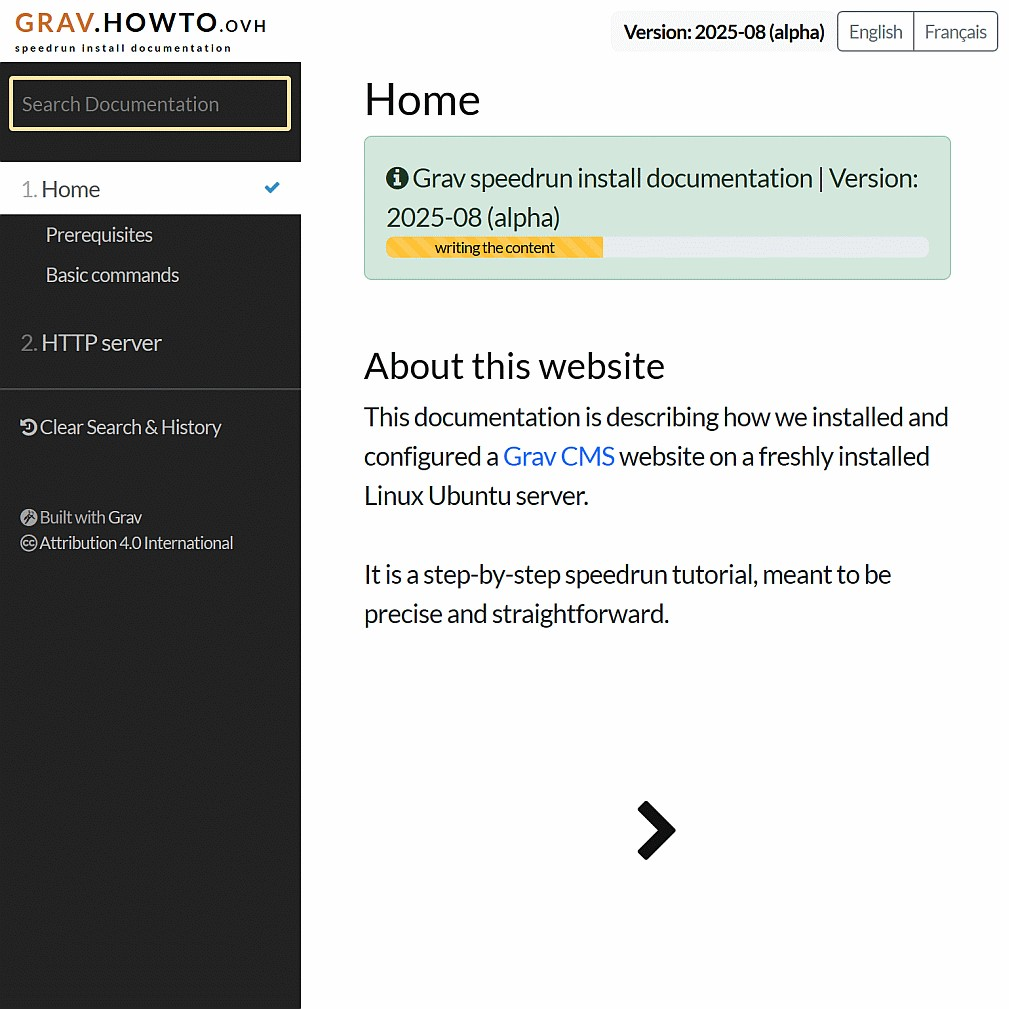
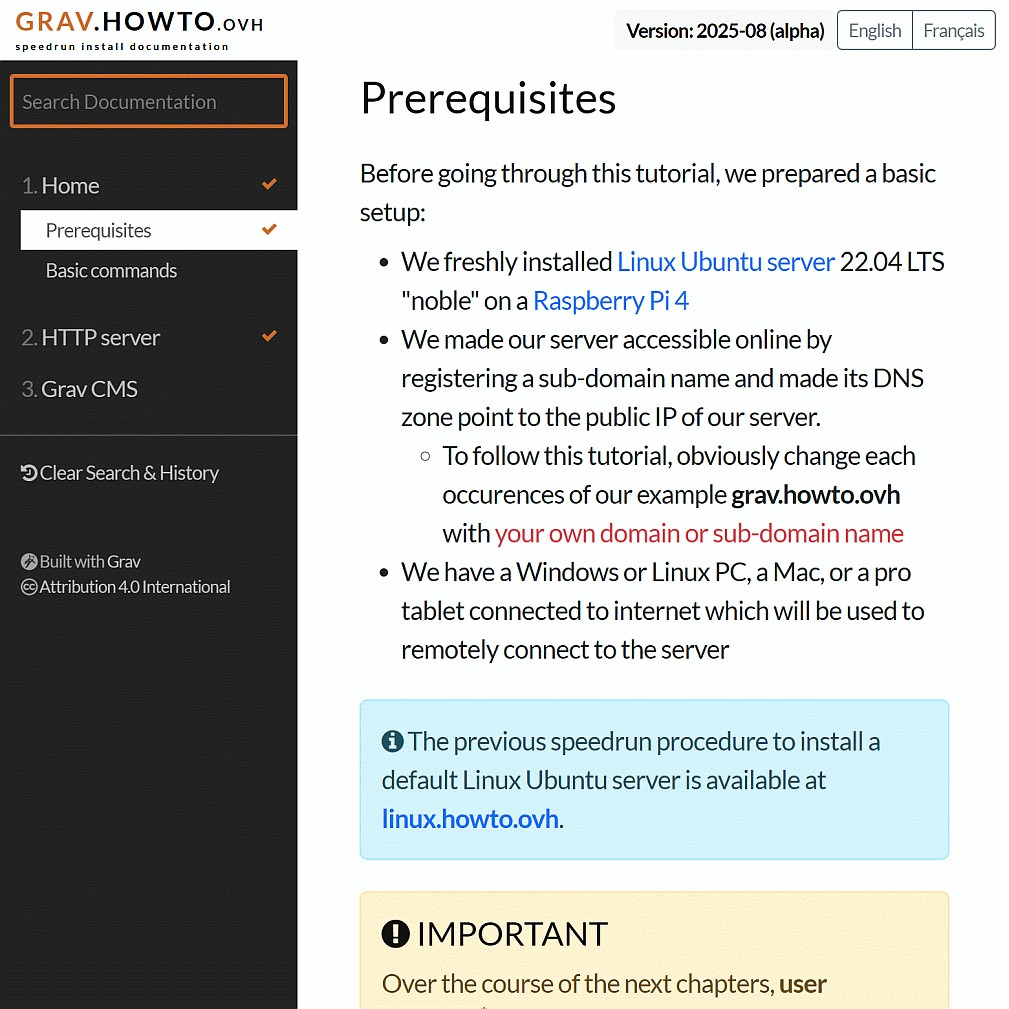
v0.2.0

diff --git a/css/custom.css b/css/custom.css
@@ -123,12 +123,12 @@ pre {
 
 .searchbox {
     background: rgb(0 0 0 / 0%);
-    color: #0dcaf0;
+    color: chocolate;
 }
 
 input[type="text"] {
     background-color: rgb(0 0 0 / 0%);
-    border: 3px solid #ffe69c;
+    border: 3px solid chocolate;
 }
 
 .search-wrapper .search-input {
@@ -179,6 +179,14 @@ input[type="text"] {
 .navbar-brand-micro {
     font-size:8px;
     letter-spacing: 0.22em;
+}
+
+#sidebar ul li.visited > a .read-icon {
+    color: chocolate;
+}
+
+#sidebar a:hover {
+    color: chocolate;
 }
 
 /* CONTENT */

diff --git a/README.md b/README.md
@@ -4,13 +4,14 @@
 
 **How-To** is a theme for [Grav CMS](https://github.com/getgrav/grav). It is based on [Learn2](https://github.com/getgrav/grav-theme-learn2) theme, and is suited for online documentations.
 
-## Features (from Learn2)
+## Features
 
 * Lightweight and minimal for optimal performance
 * Fully responsive with off-page mobile navigation
 * SCSS based CSS source files for easy customization
 * Built specifically for providing easy to read documentation
-* Fontawesome icon support
+* Fontawesome v4 icons
+* Bootstrap v5.3.7 library
 
 # Plugin dependencies
 You first need to install 2 additional plugins to fully enjoy the theme:
@@ -19,7 +20,7 @@ You first need to install 2 additional plugins to fully enjoy the theme:
 * [SimpleSearch](https://github.com/getgrav/grav-plugin-simplesearch)
 
 # Installation
-In a terminal, log to your server as the user owning your grav website files, and run
+In a terminal, log to your server as your grav website files owner, and run
 
     git clone https://github.com/patrikroy/grav-theme-how-to.git /your-grav-site/user/themes/how-to
 
